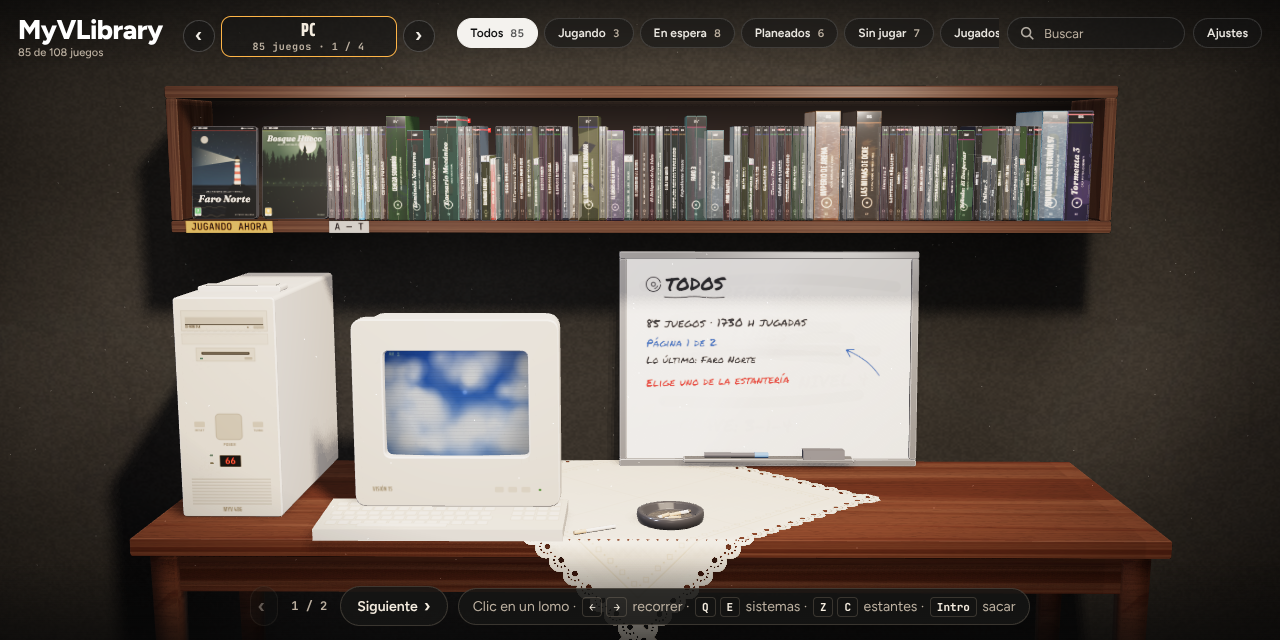
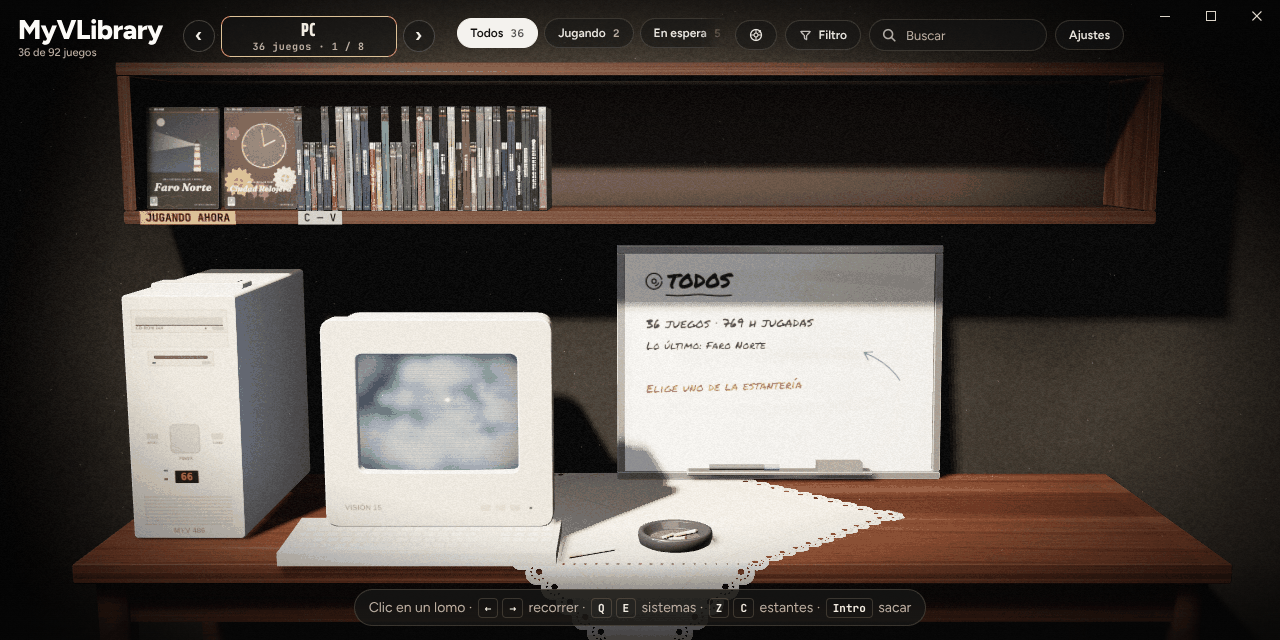
Update the README for v0.9; fix music on the wall shelf and cut covers in the roulette (v0.9.1)
- README.md and README.es.md rewritten for everything up to v0.9: real
  scans, corners, the three ways to zoom, filters, install from the card,
  the roulette, window buttons, full controls and settings.
- New screenshots for both languages (docs/ in Spanish, docs/en/ in
  English): PC desk, TV room, open case, video shop, roulette and the
  wall shelf.
- The wall and bookcase designs put the music from Navidrome on the
  games shelf ("341 of 92 games"); now they only hold games.
- The roulette's result card cut CD cases and big boxes down to a DVD's
  shape; it now shows the whole cover.
- "Hand-picked" in the roulette had the same Spanish key as the shrink
  wrap's "By hand", so one of them was always wrong in English.

Claude-Session: https://claude.ai/code/session_01FdZWHDgAmhmqodADfimVVr

diff --git a/web/src/04-dict-en.js b/web/src/04-dict-en.js
@@ -193,7 +193,7 @@ DICT.en = {
   'Las listas vienen en CD; se puede cambiar cada una o todas en Ajustes → Música.': 'Playlists come on CD; change each one here or all of them in Settings → Music.',
   'Por defecto: vinilo hasta 1972, casete hasta 1999 y CD después. Todas a la vez en Ajustes → Música.': 'By default: vinyl up to 1972, cassette up to 1999 and CD after that. All at once in Settings → Music.',
   /* the cinema light and the studio */
-  'Cine': 'Cinema', 'Al sacar algo de la estantería': 'When you take something out', 'Fondo de estudio': 'Studio backdrop', 'En la habitación': 'In the room', 'Zoom al pasar por encima': 'Zoom on hover', 'Suave': 'Gentle', 'Filtro': 'Filter', 'Todos los juegos': 'All games', 'Solo los instalados': 'Installed only', 'Filtros de Playnite': 'Playnite filters', 'Los filtros que guardes en Playnite aparecerán aquí.': 'Filters you save in Playnite show up here.', 'Ningún juego cumple ese filtro': 'No game matches that filter', 'Sin filtro, para enseñarte este juego': 'Filter removed so you can see this game', 'Ningún juego cumple «{0}»': 'No game matches “{0}”', '«{0}» se ha quedado sin juegos: se quita el filtro': '“{0}” has no games left: the filter is off', 'Instalación': 'Installation', 'Instalar': 'Install', 'Desinstalar': 'Uninstall', 'Abrir carpeta': 'Open folder', 'Marcar como no instalado': 'Mark as not installed', 'Marcar como instalado': 'Mark as installed', 'Ver en Playnite': 'Show in Playnite', 'Playnite se encarga de instalarlo.': 'Playnite is taking care of installing it.', 'Solo cambia lo que Playnite tiene apuntado: no instala ni borra nada.': 'Only changes what Playnite has noted down: nothing is installed or deleted.', 'Ruleta': 'Roulette', 'Vista de la estantería': 'Shelf view', 'Más cerca': 'Closer', 'Rueda del ratón': 'Mouse wheel', 'Pasa página': 'Turns the page', 'Acerca y aleja': 'Zooms in and out', 'Esquinas de las cajas': 'Case corners', 'Como las reales': 'Like real ones', 'Redondeadas': 'Rounded', 'Cambiando las esquinas…': 'Changing the corners…', 'Imágenes de la caja': 'Case pictures', 'Escaneo completo': 'Full scan', 'Contraportada': 'Back', 'Lomo': 'Spine', 'Disco': 'Disc', 'Etiqueta': 'Label', 'Escaneos reales de tu copia: el completo es contraportada, lomo y portada en una sola imagen. Se guardan en la carpeta de metadatos del juego.': 'Real scans of your copy: the full one is back, spine and front in one picture. They are kept in the game\'s metadata folder.', 'Imagen guardada': 'Picture saved', 'No se ha podido leer esa imagen': 'Could not read that picture', 'Ventana': 'Window', 'Minimizar': 'Minimise', 'Maximizar': 'Maximise', 'Cerrar': 'Close', '¿Entre qué juegos tiramos?': 'Which games go on the wheel?', 'Sistema': 'System', 'Filtro de Playnite': 'Playnite filter', 'A mano': 'Hand-picked', 'Cuál': 'Which one', 'Buscar juego': 'Find a game', '{0} elegidos': '{0} picked', 'Ninguno': 'None', 'Busca para ver el resto': 'Search to see the rest', 'Ningún juego con ese nombre': 'No game by that name', 'Tirar': 'Spin', 'Tirar otra vez': 'Spin again', '¡No va más!': 'No more bets!', 'Te toca': 'You got', 'Ir a por él': 'Go get it', 'Espacio': 'Space', 'entre qué': 'which games', 'cuál': 'which one', 'Volver': 'Back', 'Ningún juego entra en la ruleta': 'No game goes on the wheel', '{0} juegos: en la rueda caben 37 y cambian en cada tirada': '{0} games: 37 fit on the wheel and they change every spin', '{0} juego en la ruleta': '{0} game on the wheel', '{0} juegos en la ruleta': '{0} games on the wheel'
+  'Cine': 'Cinema', 'Al sacar algo de la estantería': 'When you take something out', 'Fondo de estudio': 'Studio backdrop', 'En la habitación': 'In the room', 'Zoom al pasar por encima': 'Zoom on hover', 'Suave': 'Gentle', 'Filtro': 'Filter', 'Todos los juegos': 'All games', 'Solo los instalados': 'Installed only', 'Filtros de Playnite': 'Playnite filters', 'Los filtros que guardes en Playnite aparecerán aquí.': 'Filters you save in Playnite show up here.', 'Ningún juego cumple ese filtro': 'No game matches that filter', 'Sin filtro, para enseñarte este juego': 'Filter removed so you can see this game', 'Ningún juego cumple «{0}»': 'No game matches “{0}”', '«{0}» se ha quedado sin juegos: se quita el filtro': '“{0}” has no games left: the filter is off', 'Instalación': 'Installation', 'Instalar': 'Install', 'Desinstalar': 'Uninstall', 'Abrir carpeta': 'Open folder', 'Marcar como no instalado': 'Mark as not installed', 'Marcar como instalado': 'Mark as installed', 'Ver en Playnite': 'Show in Playnite', 'Playnite se encarga de instalarlo.': 'Playnite is taking care of installing it.', 'Solo cambia lo que Playnite tiene apuntado: no instala ni borra nada.': 'Only changes what Playnite has noted down: nothing is installed or deleted.', 'Ruleta': 'Roulette', 'Vista de la estantería': 'Shelf view', 'Más cerca': 'Closer', 'Rueda del ratón': 'Mouse wheel', 'Pasa página': 'Turns the page', 'Acerca y aleja': 'Zooms in and out', 'Esquinas de las cajas': 'Case corners', 'Como las reales': 'Like real ones', 'Redondeadas': 'Rounded', 'Cambiando las esquinas…': 'Changing the corners…', 'Imágenes de la caja': 'Case pictures', 'Escaneo completo': 'Full scan', 'Contraportada': 'Back', 'Lomo': 'Spine', 'Disco': 'Disc', 'Etiqueta': 'Label', 'Escaneos reales de tu copia: el completo es contraportada, lomo y portada en una sola imagen. Se guardan en la carpeta de metadatos del juego.': 'Real scans of your copy: the full one is back, spine and front in one picture. They are kept in the game\'s metadata folder.', 'Imagen guardada': 'Picture saved', 'No se ha podido leer esa imagen': 'Could not read that picture', 'Ventana': 'Window', 'Minimizar': 'Minimise', 'Maximizar': 'Maximise', 'Cerrar': 'Close', '¿Entre qué juegos tiramos?': 'Which games go on the wheel?', 'Sistema': 'System', 'Filtro de Playnite': 'Playnite filter', 'Elegidos a mano': 'Hand-picked', 'Cuál': 'Which one', 'Buscar juego': 'Find a game', '{0} elegidos': '{0} picked', 'Ninguno': 'None', 'Busca para ver el resto': 'Search to see the rest', 'Ningún juego con ese nombre': 'No game by that name', 'Tirar': 'Spin', 'Tirar otra vez': 'Spin again', '¡No va más!': 'No more bets!', 'Te toca': 'You got', 'Ir a por él': 'Go get it', 'Espacio': 'Space', 'entre qué': 'which games', 'cuál': 'which one', 'Volver': 'Back', 'Ningún juego entra en la ruleta': 'No game goes on the wheel', '{0} juegos: en la rueda caben 37 y cambian en cada tirada': '{0} games: 37 fit on the wheel and they change every spin', '{0} juego en la ruleta': '{0} game on the wheel', '{0} juegos en la ruleta': '{0} games on the wheel'
 };
 /* the page itself was translated before the dictionary existed */
 if (document.body) applyDomLang();

diff --git a/web/src/23-roulette.js b/web/src/23-roulette.js
@@ -190,7 +190,7 @@ function rlDraw() {
 }
 
 /* ---------- which games go on the wheel ---------- */
-const RL_BY = [['all', 'Todos'], ['status', 'Estado'], ['cat', 'Categoría'], ['plat', 'Sistema'], ['preset', 'Filtro de Playnite'], ['pick', 'A mano']];
+const RL_BY = [['all', 'Todos'], ['status', 'Estado'], ['cat', 'Categoría'], ['plat', 'Sistema'], ['preset', 'Filtro de Playnite'], ['pick', 'Elegidos a mano']];
 const rlGames = () => GAMES.filter(g => !g.video && !g.music);
 function rlByList() { return RL_BY.filter(([v]) => v !== 'preset' || PRESETS.length); }
 /* the choices for a status, a category, a system or a saved filter, each with how many games it has */
@@ -437,7 +437,15 @@ function rlRenderResult() {
   el.innerHTML = `<span class="rl-eyebrow">${T('Te toca')}</span><canvas id="rlCover" width="300" height="420"></canvas><h2>${esc(g.t)}</h2><p>${esc(meta)}</p>
     <div class="rl-acts"><button type="button" class="primary" data-rl="go">${T('Ir a por él')}</button><button type="button" data-rl="again">${T('Tirar otra vez')}</button></div>`;
   el.hidden = false;
-  const paint = () => { const cv = $('#rlCover'); if (!cv || RL.result !== g) return; const x = cv.getContext('2d'); x.clearRect(0, 0, 300, 420); if (g.real) { const s = g.cover || g.coverSmall; if (s) coverFit(x, s, 0, 0, 300, 420); else placeholderArt(x, 300, 420, g); } else coverFit(x, drawCover(g), 0, 0, 300, 420); };
+  /* the whole cover, whatever its shape: a CD case or a big box is not cut down to a DVD's */
+  const paint = () => {
+    const cv = $('#rlCover'); if (!cv || RL.result !== g) return;
+    const s = g.real ? g.cover || g.coverSmall : drawCover(g), W = 300;
+    const H = Math.round(W * (s && imgW(s) ? Math.min(1.5, Math.max(.6, imgH(s) / imgW(s))) : 1.4));
+    if (cv.height !== H) { cv.height = H; cv.style.aspectRatio = `${W} / ${H}`; }
+    const x = cv.getContext('2d'); x.clearRect(0, 0, W, H);
+    if (s) coverFit(x, s, 0, 0, W, H); else placeholderArt(x, W, H, g);
+  };
   paint(); if (g.real && PLAYNITE) LIB.bigCover(g).then(paint);
 }
 $('#rlPanel').addEventListener('click', e => {

diff --git a/web/src/13-shelf.js b/web/src/13-shelf.js
@@ -58,7 +58,7 @@ function groupRank(k, n) {
 }
 function belongs(g, key) { return key === '__all' || keysOf(g).includes(key); }
 function buildGroups() {
-  const sys = curSysKey(), all = (isRooms() ? GAMES.filter(g => sysOf(g) === sys) : GAMES.filter(g => !g.video)).filter(g => passes(g)), map = new Map();
+  const sys = curSysKey(), all = (isRooms() ? GAMES.filter(g => sysOf(g) === sys) : GAMES.filter(g => !g.video && !g.music)).filter(g => passes(g)), map = new Map();
   if (isRooms() && sys === 'VIDEO') {
     /* the video room: a bookcase per library, in Jellyfin's order */
     all.forEach(g => { const k = g.lib || T('Vídeo'); if (!map.has(k)) map.set(k, []); map.get(k).push(g); });

diff --git a/README.md b/README.md
@@ -4,47 +4,63 @@
 
 Your Playnite library turned into a shelf of physical games.
 
-Every game is a case. You take it down, peel off the shrink wrap, open it and put the disc in the console to play. The description and the game's details are in the manual inside, and the back cover has the summary.
+Every game is a case. You take it down, peel off the shrink wrap, open it and put the disc in the machine to play. The description and the game's details are in the manual inside, and the back cover has the summary.
 
-Each system has its own place. PC games sit on a shelf above a desk with a beige 90s PC (CD-ROM drive, floppy drive and a CRT monitor) and a whiteboard that writes down in marker whatever you are holding. Each console's games are kept in the low TV cabinet: you sit on the rug, with the TV at eye height and the console on the floor in front of it.
+Each system has its own place. PC games sit on a shelf above a desk with a beige 90s PC and a whiteboard that writes down, in marker, whatever you are holding. Each console's games are kept in a low TV cabinet: you sit on the rug, with the TV at eye height and the console on the floor in front of it. Your films can have a video shop (Jellyfin) and your music a record shop (Navidrome). Past the last room there is a casino table with a roulette for when you can't decide what to play.
 
 [![ko-fi](https://ko-fi.com/img/githubbutton_sm.svg)](https://ko-fi.com/T4Y129OF2M)
 
-![The PC desk](docs/mesa-pc.png)
+![The PC desk](docs/en/mesa-pc.png)
 
-![The TV room](docs/sala-tv.png)
+![The TV room](docs/en/sala-tv.png)
 
 ## What it does
 
-- **Your real library.** Covers, backgrounds, descriptions, playtime, completion statuses and categories come from Playnite.
-- **Shelves.** At the top right you choose what is on the shelf: all your games or one status (Playing, Beaten…). You can also group them by category, platform or format. If they don't fit, the shelf has pages ("Next").
-- **Filters.** The Filter button at the top shows every game, only the installed ones, or only the games one of your saved Playnite filters (filter presets) lets through. F on the keyboard (Y on the controller) moves to the next one. Each choice says how many games it leaves, and one that leaves none can't be picked. Rooms left with nothing in them are skipped, and the button is there in every room, the video and music ones too.
-- **Install from the card.** Inside Playnite, a game's card has an Installation row: install or uninstall the game (Playnite and the game's store take care of it), open its folder, show it in Playnite, or mark it as installed or not installed when Playnite has it wrong. Marking only changes what Playnite has noted down: nothing is installed or deleted.
-- **A closer look.** Point at a game with the mouse, or move to it with the controller, and the view zooms in on it so the spines are easy to read; move away and it zooms back out. Choose how much in Settings → Zoom on hover (Gentle, Normal, A lot or No). For more: Shelf view → Closer keeps the view zoomed in all the time, and Mouse wheel → Zooms in and out lets the wheel zoom where you point (the page then turns with the buttons and the arrows). On the keyboard, + and − zoom and 0 goes back.
-- **Real scans: back, spine, disc.** Each case can show the real back cover, spine and disc (or cartridge label) of your copy, and a scanned front shows exactly as printed. Add them from the case's card (Case pictures): a full wraparound scan (back, spine and front in one picture, cut by the case's own proportions) or each part on its own. They are kept in the game's ExtraMetadata folder (`ExtraMetadata\games\<game id>\`), and pictures other tools put there under the usual names are picked up too: `Back`, `Box - Back`, `Spine`, `Box - Spine`, `Disc`, `Cart - Front`, `Full`, `Box - Full`… as PNG, JPG or WebP.
-- **Case corners.** Like real ones by default (a keep case is barely rounded, a cardboard box is square), or the softer, rounded look: Settings → Case corners.
-- **The roulette.** The Roulette button at the top (R on the keyboard, Back / View on the controller) takes you to a casino table past the last room. Choose which games go on the wheel: all of them, one status, category or system, one of your saved Playnite filters, or the ones you tick by hand, and if you like only the installed ones. Each pocket holds a game's cover. Spin, and when the ball settles, *Go get it* takes you to that game's room and puts it in your hands.
-- **Any format you like.** Each PC game can come in a DVD case, a CD jewel case, a big CD case (like the PAL PlayStation or Dreamcast ones), a cardboard big box, a late-90s box of 3½" floppies or a 16-bit cartridge box. Pick it in the game's card (Format) and mix them on the same shelf. The case in your hands changes on the spot, and the shelf makes room when you put it back. If you don't pick one, it goes by year: floppies before 1994, a CD case from 1994 to 2003 and a DVD case after that.
-- **Each console with its own format.** Console games come in their system's case and medium: PlayStation in a big CD case, PS2 and later in a DVD case, Super Nintendo, Nintendo 64 or Switch on a cartridge… so the console always gets what it expects. To change them, set Settings → Console formats to "Free".
-- **A place per system.** The ‹ › buttons next to the system name (or Q / E, LB / RB) walk you from one system to the next. Only the systems you have in Playnite show up. PC games are on the desk; the rest are in the TV room: a CRT up to the PS2 generation and a flat TV from the PS3, Xbox 360 and Wii on.
-- **Machines for every medium.** The PC has a CD tray that slides out and back, a floppy drive with its light and a cartridge slot on top. The generic ID-2 console has a disc slot, a floppy drive and a cartridge slot. Discs, floppies and cartridges each go in where they belong.
-- **Video room (Jellyfin).** Link your Jellyfin server in the extension's settings (Add-ons → MyVLibrary) and your films and series appear in a new room, like a video shop: one bookcase per library. Anything before 1997 comes on VHS, up to 2014 on DVD and after that on Blu-ray, and each film or season can be changed. A series takes a single spine; take it out, pick the season and it comes in a cardboard box of six tapes or in a DVD/Blu-ray case with a flip tray and four discs in view. The arrows bring the next episodes and the search goes straight to one. If you stopped halfway, you choose to resume or start over. The tape goes into a VCR next to the CRT and the disc into a player next to the flat TV (generic ones, EmuVR's own or any `.ugc`), and it plays in Windows' own player or VLC. When you close the player it goes back to its case by itself. Without Jellyfin linked, the room does not appear.
-- **Record shop (Navidrome).** Link your Navidrome server in the extension's settings (Music tab) and a record shop appears, with racks of albums, artists, songs and playlists. Up to 1972 it comes on vinyl, up to 1999 on cassette and after that on CD; playlists on CD. Change it on each record or, for all albums, playlists or songs (or everything at once), in Settings → Music. An album or a playlist plays whole on a 90s hi-fi with speakers: turntable on top, CD tray in the middle and cassette deck below, with play and pause, previous and next song, volume, and stop and eject buttons. Single songs and an artist's songs go into a bag: one plays as it is; several are first recorded at the computer onto a CD or a cassette (your choice) that only lasts while it plays. The music keeps playing while you walk around the library, with a small player on screen. Optionally, records and tapes are turned over halfway. Without Navidrome linked, the shop does not appear.
-- **Your EmuVR consoles.** In Settings → EmuVR consoles and screens you can pick an EmuVR `.ugc` file for each system, and another one for the CRT TV, the flat TV or the monitor. When you walk into that system's room, the model replaces the generic console and moves the way its author animated it for EmuVR: the lid or the tray opens, the slot-loader pulls the disc in, the cartridge sinks into its slot and the power button goes down. The game goes where the model's media socket is, in the direction its animations move it; without animations, through whichever way out of the socket is open (from above, a slot on the side...), and a tight opening (a handheld, a UMD) gets a smaller medium. The consoles that come with EmuVR itself (Nintendo 64, PlayStation, PlayStation 2, GameCube, NES, the three Super Nintendos, the VCR...) aren't `.ugc` files: **Read EmuVR folder** reads them from your EmuVR installation and offers them on every system. If it faces the wall, the ↻ button turns it around. Models are read on your computer and kept in the extension's data: the extension ships none of them and nothing is uploaded. `.ugc` files compressed with LZMA can't be read yet.
+### Your library, on shelves
+
+- **Your real library.** Covers, backgrounds, descriptions, playtime, completion statuses and categories come from Playnite. Status, categories, rating (stars) and notes you change on the shelf are saved back to Playnite. Nothing changes by itself.
+- **A room per system.** The ‹ › buttons next to the system name (or Q / E, LB / RB) walk you from one system to the next. Only the systems you have in Playnite show up. PC games are on the desk; the rest are in the TV room, with a CRT up to the PS2 generation and a flat TV from the PS3, Xbox 360 and Wii on.
 - **Three designs.** By system (the one in the pictures), one long wall shelf above the table with the TV and the console, or a row of bookcases (one per status, category or platform). Change it in Settings → Design.
-- **Actually playing.** When you put the disc in, Playnite starts the game. While you play, the TV shows it and the case waits, closed, beside the machine: on the desk right of the monitor, or on the rug next to the console. When you close the game, the case opens, the disc goes back into it on its own and the case returns to its place on the shelf. If Playnite thinks the game has closed but a program from its folder is still open, the disc stays in until you close it, and that time is added to your playtime.
+- **Shelves.** At the top you choose what is on the shelf: all your games or one status (Playing, Beaten…). You can also group them by category, platform or format. If there are more than fit in the top bar, scroll it with the mouse wheel or its scroll bar; if a shelf is full, it has pages ("Next").
+- **Filters.** The Filter button at the top shows every game, only the installed ones, or only the games one of your saved Playnite filters (filter presets) lets through. F on the keyboard (Y on the controller) moves to the next one. Each choice says how many games it leaves, and one that leaves none can't be picked. Rooms left empty are skipped.
+- **The roulette.** The Roulette button at the top (R on the keyboard, Back / View on the controller) takes you to a casino table past the last room. Choose which games go on the wheel: all of them, one status, category or system, one of your saved Playnite filters or the ones you tick by hand, and if you like only the installed ones. Each pocket holds a game's cover. Spin, and when the ball settles, *Go get it* takes you to that game's room and puts it in your hands.
+
+### The cases
+
+- **Any format you like.** Each PC game can come in a DVD case, a CD jewel case, a big CD case (like the PAL PlayStation or Dreamcast ones), a cardboard big box, a late-90s box of 3½" floppies or a 16-bit cartridge box. Pick it in the game's card (Format) and mix them on the same shelf. If you don't pick one, it goes by year: floppies before 1994, a CD case from 1994 to 2003 and a DVD case after that.
+- **Each console with its own format.** Console games come in their system's case and medium: PlayStation in a big CD case, PS2 and later in a DVD case, Super Nintendo, Nintendo 64 or Switch on a cartridge… so the console always gets what it expects. To change them, set Settings → Console formats to "Free".
+- **Real scans: back, spine, disc.** Each case can show the real back cover, spine and disc (or cartridge label) of your copy, and a scanned front shows exactly as printed. Add them from the case's card (Case pictures): a full wraparound scan (back, spine and front in one picture, cut by the case's own proportions) or each part on its own. They are kept in the game's ExtraMetadata folder (`ExtraMetadata\games\<game id>\`), and pictures other tools put there under the usual names are picked up too: `Back`, `Box - Back`, `Spine`, `Box - Spine`, `Disc`, `Cart - Front`, `Full`, `Box - Full`… as PNG, JPG or WebP.
+- **Corners like real ones.** A keep case is barely rounded and a cardboard box is square. If you prefer the softer look: Settings → Case corners → Rounded.
+- **Shrink wrap and dust.** A game you have never opened arrives shrink-wrapped: pull the red tab to peel the wrap off. Games you haven't touched in a while gather dust, and you wipe it off by rubbing the case.
+
+### Playing
+
+- **Machines for every medium.** The PC has a CD tray that slides out and back, a floppy drive with its light and a cartridge slot on top. The generic ID-2 console has a disc slot, a floppy drive and a cartridge slot. Discs, floppies and cartridges each go in where they belong.
+- **Actually playing.** When you put the disc in, Playnite starts the game. While you play, the TV shows it and the case waits, closed, beside the machine. When you close the game, the case opens, the disc goes back into it on its own and the case returns to its place on the shelf. If Playnite thinks the game has closed but a program from its folder is still open, the disc stays in until you close it, and that time is added to your playtime.
+- **Install from the card.** Inside Playnite, a game's card has an Installation row: install or uninstall the game (Playnite and the game's store take care of it), open its folder, show it in Playnite, or mark it as installed or not installed when Playnite has it wrong. Marking only changes what Playnite has noted down: nothing is installed or deleted.
 - **Trailer.** The TV and the back cover play the game's trailer: the one from Extra Metadata Loader if you have it, or a video found in the description.
-- **Cinema light and the studio.** By default the room is dark, with one warm spot from the upper left and a little film grain. When you take something out, the room fades behind a grey studio backdrop and softboxes light the case: it turns towards you as it opens and settles with a small bounce when it closes, you can drag it to turn it in your hands, and its corners catch little stars of light. If you'd rather keep the room behind it, change it in Settings → When you take something out.
-- **The TV and the whiteboard.** Changing what's on the TV brings a burst of snow and the channel number on screen, and the whiteboard writes what you're holding stroke by stroke, as if with a marker.
+
+### Look and feel
+
+- **Cinema light and the studio.** The room is dark, with one warm spot from the upper left and a little film grain. When you take something out, the room fades behind a grey studio backdrop and softboxes light the case: it turns towards you as it opens and settles with a small bounce when it closes, you can drag it to turn it in your hands, and its corners catch little stars of light. To keep the room behind it: Settings → When you take something out → In the room.
+- **A closer look.** Point at a game with the mouse, or move to it with the controller, and the view zooms in on it so the spines are easy to read. Choose how much in Settings → Zoom on hover (Gentle, Normal, A lot or No). For more: Shelf view → Closer keeps the view zoomed in all the time, and Mouse wheel → Zooms in and out lets the wheel zoom where you point (the page then turns with the buttons and the arrows). On the keyboard, + and − zoom and 0 goes back.
+- **The TV and the whiteboard.** Changing what's on the TV brings a burst of snow and the channel number on screen, and the whiteboard writes what you're holding stroke by stroke.
+- **Rooms and lights.** Living room, Nordic, Cosy, Cabin, Japanese, Library, Industrial loft, Video store, Gamer and Spaceship, with four lights: cinema, night, evening and day.
 - **Your language.** The shelf follows Playnite's language (Spanish and English for now).
-- **Unplayed games.** If you have never opened a game, it arrives shrink-wrapped. Pull the red tab to peel the wrap off.
-- **Dust.** Games you haven't touched in a while gather dust, and you wipe it off by rubbing the case.
-- **Changes saved to Playnite.** Status, categories, rating (stars) and notes. Nothing changes by itself, only when you change it.
-- **Rooms.** Living room (the one in the picture), Nordic, Cosy, Cabin, Japanese, Library, Industrial loft, Video store, Gamer and Spaceship. There are also four lights: cinema, night, evening and day.
 
-![Open case with the disc and the manual](docs/caja-abierta.png)
+![An open case in the studio](docs/en/caja-abierta.png)
 
-![The wall shelf design](docs/estanteria.png)
+![The roulette](docs/en/ruleta.png)
+
+### Films, music and EmuVR
+
+- **Video shop (Jellyfin).** Link your Jellyfin server in the extension's settings (Add-ons → MyVLibrary) and your films and series appear in a new room, like a video shop: one bookcase per library. Anything before 1997 comes on VHS, up to 2014 on DVD and after that on Blu-ray, and each film or season can be changed. A series takes a single spine; take it out, pick the season and it comes in a cardboard box of six tapes or in a DVD/Blu-ray case with a flip tray and four discs in view. The arrows bring the next episodes and the search goes straight to one. If you stopped halfway, you choose to resume or start over. The tape goes into a VCR next to the CRT and the disc into a player next to the flat TV (generic ones, EmuVR's own or any `.ugc`), and it plays in Windows' own player or VLC. When you close the player it goes back to its case by itself. Without Jellyfin linked, the room does not appear.
+- **Record shop (Navidrome).** Link your Navidrome server in the extension's settings (Music tab) and a record shop appears, with racks of albums, artists, songs and playlists. Up to 1972 it comes on vinyl, up to 1999 on cassette and after that on CD; playlists on CD. Change it on each record or, for all albums, playlists or songs (or everything at once), in Settings → Music. An album or a playlist plays whole on a 90s hi-fi with speakers: turntable on top, CD tray in the middle and cassette deck below, with play and pause, previous and next song, volume, and stop and eject buttons. Single songs and an artist's songs go into a bag: one plays as it is; several are first recorded at the computer onto a CD or a cassette (your choice) that only lasts while it plays. The music keeps playing while you walk around the library, with a small player on screen. Optionally, records and tapes are turned over halfway. Without Navidrome linked, the shop does not appear.
+- **Your EmuVR consoles.** In Settings → EmuVR you can pick an EmuVR `.ugc` file for each system, and another one for the CRT TV, the flat TV or the monitor. When you walk into that system's room, the model replaces the generic console and moves the way its author animated it for EmuVR: the lid or the tray opens, the slot-loader pulls the disc in, the cartridge sinks into its slot and the power button goes down. The game goes where the model's media socket is, in the direction its animations move it; without animations, through whichever way out of the socket is open (from above, a slot on the side…), and a tight opening (a handheld, a UMD) gets a smaller medium. The consoles that come with EmuVR itself (Nintendo 64, PlayStation, PlayStation 2, GameCube, NES, the three Super Nintendos, the VCR…) aren't `.ugc` files: **Read EmuVR folder** reads them from your EmuVR installation and offers them on every system. If it faces the wall, the ↻ button turns it around. Models are read on your computer and kept in the extension's data: the extension ships none of them and nothing is uploaded. `.ugc` files compressed with LZMA can't be read yet.
+
+![The video shop](docs/en/videoclub.png)
+
+![The wall shelf design](docs/en/estanteria.png)
 
 ## Install
 
@@ -55,7 +71,7 @@ You need:
 
 Steps:
 
-1. Download the latest `MyVLibrary_x_y_z.pext`. It's in [Releases](../../releases) or, for the latest development build, in the **Actions** tab: open the latest run and download the `MyVLibrary-pext` artifact, which comes inside a .zip.
+1. Download the latest `MyVLibrary_x_y_z.pext` from [Releases](../../releases). For the latest development build, open the newest run in the **Actions** tab and download the `MyVLibrary-pext` artifact, which comes inside a .zip.
 2. Double-click the `.pext`, or drag it onto the Playnite window.
 3. Restart Playnite when it asks you to.
 
@@ -71,7 +87,7 @@ There are three ways to open the shelf:
 - From the main menu: **Extensions → MyVLibrary → Open the shelf in a window**.
 - Right-click a game: **MyVLibrary → Show on the shelf**. The shelf opens right on that game.
 
-In the sidebar the shelf covers Playnite's own window buttons, so it shows its own in the top right corner (minimise, maximise, close). Drag the top bar to move the window, and double-click it to maximise. If there are more shelves than fit in the top bar, scroll it with the mouse wheel or its scroll bar.
+In the sidebar the shelf covers Playnite's own window buttons, so it shows its own in the top right corner (minimise, maximise, close). Drag the top bar to move the window, and double-click it to maximise.
 
 **Fullscreen mode**
 
@@ -85,32 +101,39 @@ In the sidebar the shelf covers Playnite's own window buttons, so it shows its o
 |---|---|---|---|
 | Move along the shelf | hover | ← → (↑ ↓ jump 8 at a time) | d-pad / stick |
 | Take a game out | click the spine | Enter | A |
-| Turn the case | click the case | F | Y |
+| Turn the case | click the case, or drag it | F | Y |
 | Peel off the shrink wrap | drag the tab | Enter | A |
 | Open the case / insert the disc | buttons at the bottom | Enter | A |
 | Read the manual | click the manual | M | X |
+| Show or hide the card | Card at the top left | I | Back / View |
 | Zoom the shelf | wheel (if set to zoom) | + / − / 0 | |
-| Roulette (in / spin / go get it) | Roulette button | R / Enter or Space / Enter | Back / A or Y / X |
 | Filter (all, installed, your Playnite filters) | Filter button at the top | F | Y |
+| Roulette: go in | Roulette button | R | Back / View |
+| Roulette: spin / go get it | Spin, click the wheel / Go get it | Enter or Space / Enter | A or Y / X |
+| Roulette: which games | buttons on the left | ↑ ↓ (which) · ← → (which one) | d-pad |
 | Change system (By system design) | ‹ › next to the system | Q / E | LB / RB |
-| Change shelf | pills at the top | Q / E (Z / C in the By system design) | LB / RB (LT / RT in the By system design) |
+| Change shelf | the buttons at the top | Q / E (Z / C in the By system design) | LB / RB (LT / RT in the By system design) |
 | Change page | "Next" | Page Up / Page Down | LT / RT |
 | Go back | | Esc | B |
 | Change room | Settings | H | |
 
+**Shelf settings** (the Settings button at the top right):
+
+- **General:** design, what the shelves group by, sort order, console formats, shrink wrap (ask, by hand or remove itself) and whether the card starts folded or open.
+- **Room:** room and light, sound and effects volume, trailer, zoom on hover, shelf view, mouse wheel, case corners and what happens when you take something out.
+- **Music:** the format of albums, playlists and songs, what your mixtapes are recorded on, turning records and tapes over, music volume.
+- **EmuVR:** the `.ugc` models for each system and screen, and Read EmuVR folder.
+
 **Extension settings** (Playnite → Add-ons → MyVLibrary):
 
-- Open the shelf when Playnite starts in fullscreen.
-- LB + RB to open and close it.
-- Include hidden games.
-- Keep the disc in while the game is still open.
-- Tell me when there is a new version.
-- Developer tools (F12).
+- **Shelf:** open the shelf when Playnite starts in fullscreen, LB + RB to open and close it, include hidden games, keep the disc in while the game is still open, tell me when there is a new version, developer tools (F12).
+- **Video (Jellyfin):** server, user, libraries and the player (Windows' own or VLC).
+- **Music (Navidrome):** server and user.
 
 ## What is saved, and where
 
 - **In Playnite:** completion status, categories, user score (each star is 20 points) and notes. Case pictures you add from the card go in the game's ExtraMetadata folder.
-- **In the extension's data:** the shrink wrap, dust and chosen format of each case, the shelf preferences (room, light, sort order, system, filter, what goes on the roulette), the `.ugc` files you picked, the EmuVR consoles read from its folder, the list of Jellyfin films and series with its access token (never the password), the Navidrome music list with its password encrypted for your Windows user (its API needs it for every request), a cache of downsized covers and another of the songs played most recently (up to 1 GB). If you never change a game's format, it uses the one its platform suggests.
+- **In the extension's data:** the shrink wrap, dust and chosen format of each case, the shelf preferences (room, light, sort order, system, filter, zoom, what goes on the roulette), the `.ugc` files you picked, the EmuVR consoles read from its folder, the list of Jellyfin films and series with its access token (never the password), the Navidrome music list with its password encrypted for your Windows user (its API needs it for every request), a cache of downsized covers and another of the songs played most recently (up to 1 GB). If you never change a game's format, it uses the one its platform suggests.
 
 ## Development
 
@@ -132,21 +155,21 @@ node build.mjs                 # web/dist/, what the extension ships
 ```
 
 - Open `web/dist/index.html` from a static server (for example `npx serve web`) to see the sample library.
-- Add `?mock` to the end of the address and the page pretends to be inside Playnite. This tests the real path: covers, colours taken from the cover, starting and closing a game, and changes sent back. With `?mock&running=<id>` the shelf opens with that game already running.
+- Add `?mock` to the end of the address and the page pretends to be inside Playnite. This tests the real path: covers, colours taken from the cover, starting and closing a game, saved filters, the card's buttons and changes sent back. With `?mock&running=<id>` the shelf opens with that game already running.
 
 **The extension**
 
 - Build it with `dotnet build extension/MyVLibrary.csproj -c Release`, on Windows, after building the web part.
 - GitHub Actions does this on every change and keeps the `.pext` as an artifact.
-- If you push a `v*` tag (for example `v0.2.0`), it also publishes a release.
-- **Version.** It lives in `extension/extension.yaml` (and is repeated in `web/package.json`). The DLL and the shelf read it from there; you can see it at the bottom of Settings. Every PR that touches `extension/` or `web/` must raise it, or the GitHub Actions check fails. Only numbers and dots (like `0.7.2`): Playnite refuses anything else, such as `0.7.1-hotfix`, with "The extension is not packaged properly". A release tag must be exactly `v` plus the version (`v0.7.2`).
+- If you push a `v*` tag (for example `v0.9.0`), it also publishes a release, which is what the update notice offers.
+- **Version.** It lives in `extension/extension.yaml` (and is repeated in `web/package.json`). The DLL and the shelf read it from there; you can see it at the bottom of Settings. Every PR that touches `extension/` or `web/` must raise it, or the GitHub Actions check fails. Only numbers and dots (like `0.9.0`): Playnite refuses anything else, such as `0.7.1-hotfix`, with "The extension is not packaged properly". A release tag must be exactly `v` plus the version (`v0.9.0`).
 
 **How the two parts talk**
 
-- The extension serves the `web` folder at `https://app.myvlibrary/` and covers at `https://media.myvlibrary/cover/{id}?w=…`, downsized and cached.
+- The extension serves the `web` folder at `https://app.myvlibrary/`, covers at `https://media.myvlibrary/cover/{id}?w=…` (downsized and cached) and the ExtraMetadata folder (logos, trailers, case pictures) at `https://extra.myvlibrary/`.
 - The page and the extension exchange JSON messages with `chrome.webview.postMessage`.
-- The page sends: `ready`, `detail`, `start`, `update`, `openUrl`, `close`, `fetch`, `createStatus`, `createCategory`, `release`, `game`, `setArt` and `window`.
-- The extension answers with `library`, `games`, `removed`, `lists`, `detail`, `started`, `tracking`, `stopped`, `cancelled`, `notInstalled`, `failed`, `activated`, `fetched`, `pad`, `focus` and `notice`.
+- The page sends: `ready`, `detail`, `start`, `update`, `openUrl`, `close`, `fetch`, `createStatus`, `createCategory`, `release`, `game`, `setArt` and `window`, plus the `jf…` and `nd…` ones for Jellyfin and Navidrome.
+- The extension answers with `library`, `games`, `removed`, `lists`, `detail`, `started`, `tracking`, `stopped`, `cancelled`, `notInstalled`, `failed`, `activated`, `fetched`, `pad`, `focus`, `notice` and `winState`, plus the video and music ones.
 
 ## Thanks
 
@@ -154,4 +177,4 @@ The cinema light, the studio backdrop and the way the case opens and closes are 
 
 ## License
 
-GPL-3.0. The demo games are made up, and the console, the PC, the TVs and the monitor are original designs. EmuVR models, including the ones that come with EmuVR, belong to their authors: none are included in or distributed with the extension.
+GPL-3.0. The demo games are made up, and the console, the PC, the TVs, the monitor and the roulette are original designs. EmuVR models, including the ones that come with EmuVR, belong to their authors: none are included in or distributed with the extension.
